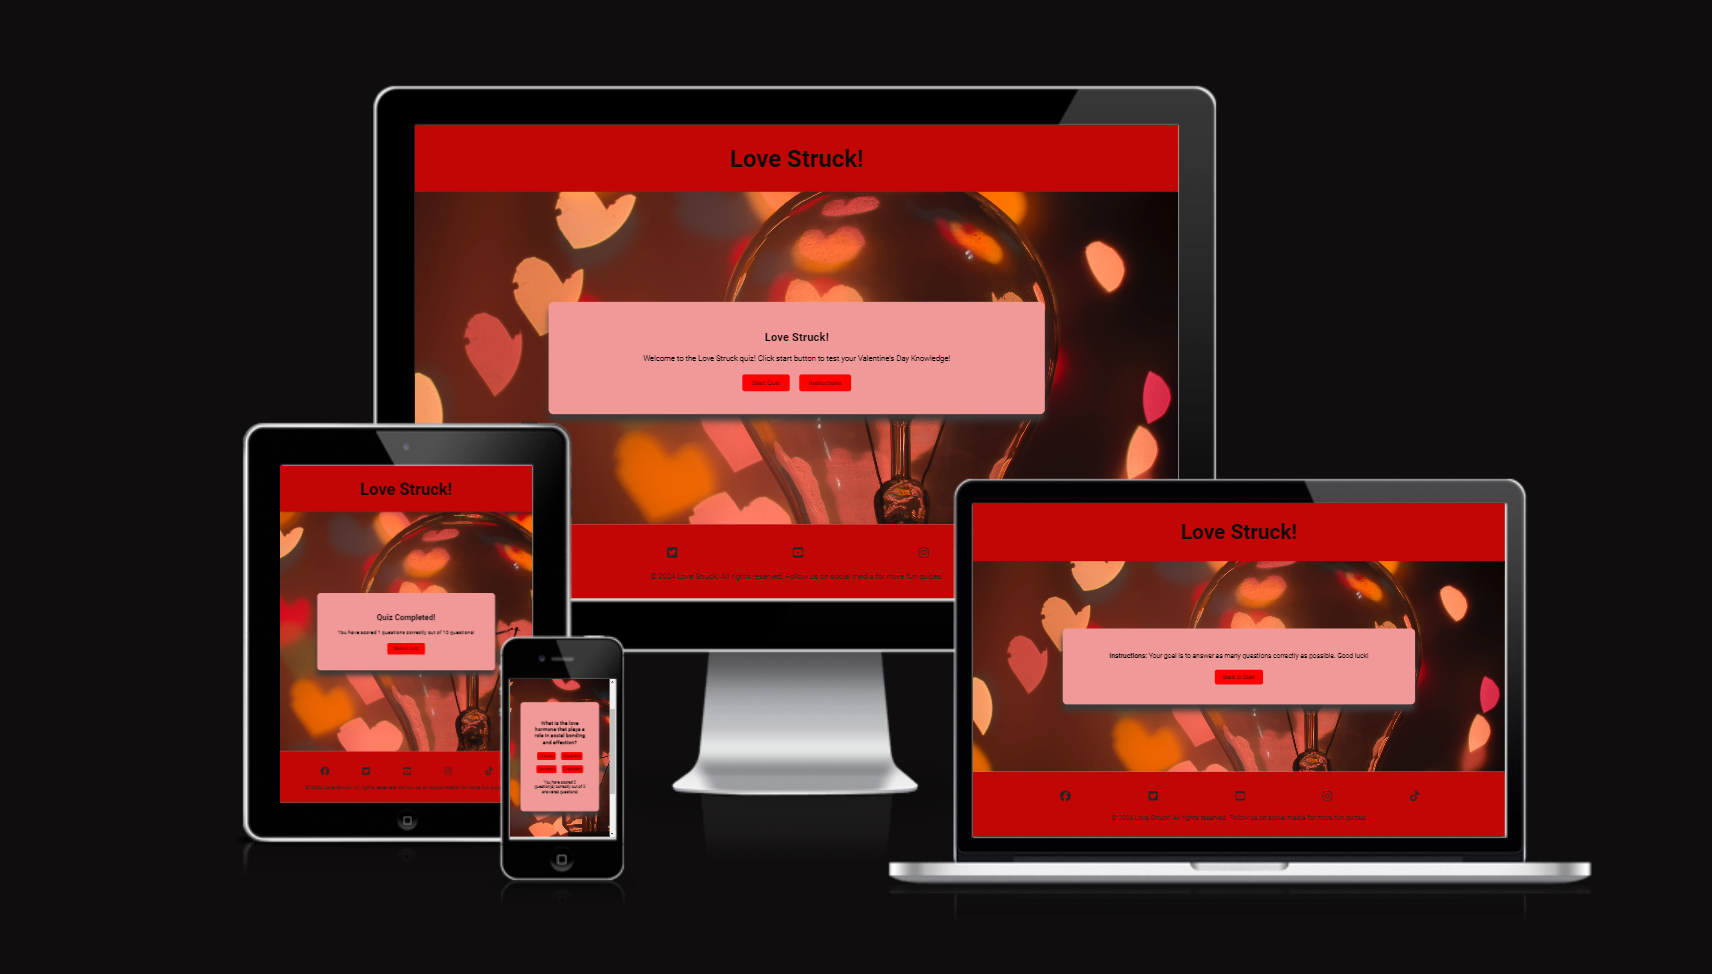
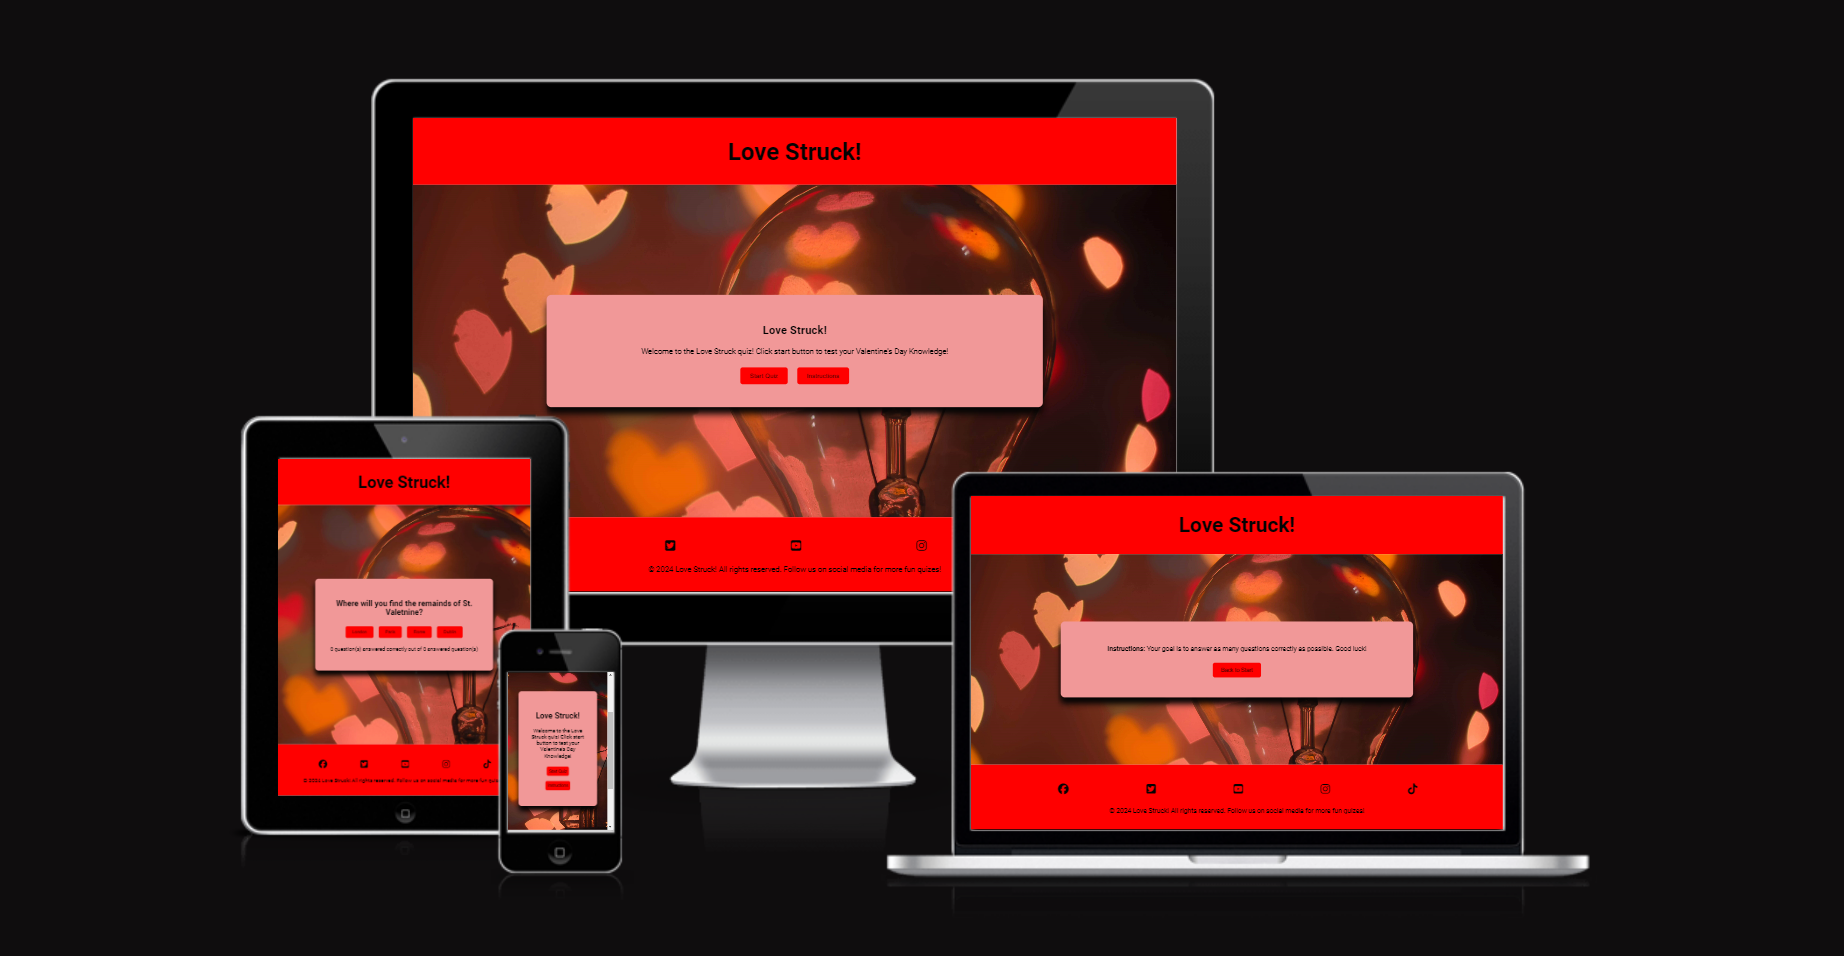
Add new documents to documents folder for readme file

diff --git a/README.md b/README.md
@@ -82,13 +82,11 @@ If the user clicks the "Instructions" button they are directed to a new screen w
 
 All colors chosen have warm red and pink tones to embrace the mood of Valentine's Day. These colors also complimented the image used as the main background depicting hearts.
 
-- #d60b0b was used for the color of the header and footer. This color was chosen as it is a deep red which has always been associated with Valentine's Day. This also worked well with the contrast of the black color of the font enabling the player to read the text with ease.
+- #FF0000 was used for the color of the header and footer. This color was chosen as it is a clean red which has always been associated with Valentine's Day. This also worked well with the contrast of the black color of the font enabling the player to read the text with ease. This color was used for the buttons also. I had originally used #C20606 but I found this did not work well with the buttons as I found them a little hard to read. I found a cleaner red tone made it easier to read text on the small buttons and the red tied in well with the theme of Valentine's Day.
 
 - #F19898 was used for the container on each page which displays the welcome message, instructions, questions and answers and the quiz completed page. This is a subtle pink color that compliments the deep red header, footer and background image. This color also ties in with the Valentine's Day theme and it works well with the black font used enabling the player to read the questions and answers with ease. This color was also used for the icons in the footer when the cursor is hovered over them.
 
 - #030303 was used for the text throughout the game. This color works well with each background and it gives a clean finish and enables the player to read the text with ease.
-
-- #FF0000 was used for the buttons. I had originally used #C20606 but I found this did not work well with the buttons as I found them a little hard to read. I found a cleaner red tone made it easier to read text on the small buttons and the red tied in well with the theme of Valentine's Day.
 
 ### Typography
 
@@ -205,22 +203,20 @@ The website was tested on:
 
 - None to note
 
+
 ## Deployment
 
-### Deployment to GitHub Pages
+I deployed my project using GitHub pages:
 
-- This site was deployed to GitHub pages. The steps I took to deploy this project:
-- In the [GitHub Repository](https://github.com/mcallisterliza/love-stuck) go to 'Settings Tab'. From the source section, I selected the 'Main Branch' and then click save. The page then refreshes and indicates the deployment was successful. Access the live link [here](https://github.com/mcallisterliza/drama-kids)
-  
+- First I clicked settings in my GitHub repository.
+- I then clicked 'pages' from the left-hand side of the page.
+- I selected Source - Deploy from branch.
+- The main branch was selected and the folder was 'root'.
+- Under the branch, I then clicked save.
+- I then went back to the code tab in the Environments section and I then clicked on GitHub Pages.
+- I then clicked on view deployments to see the live site.
 
-### Local deployment
-
-To make a local copy of this project, clone it.
-In your IDE Terminal, type the following command to clone my repository:
-
-- git clone `https://github.com/mcallisterliza/love-struck.git`
-
----
+Live link: [Love Struck!](https://mcallisterliza.github.io/love-struck/)
 
 ## Credits
 
